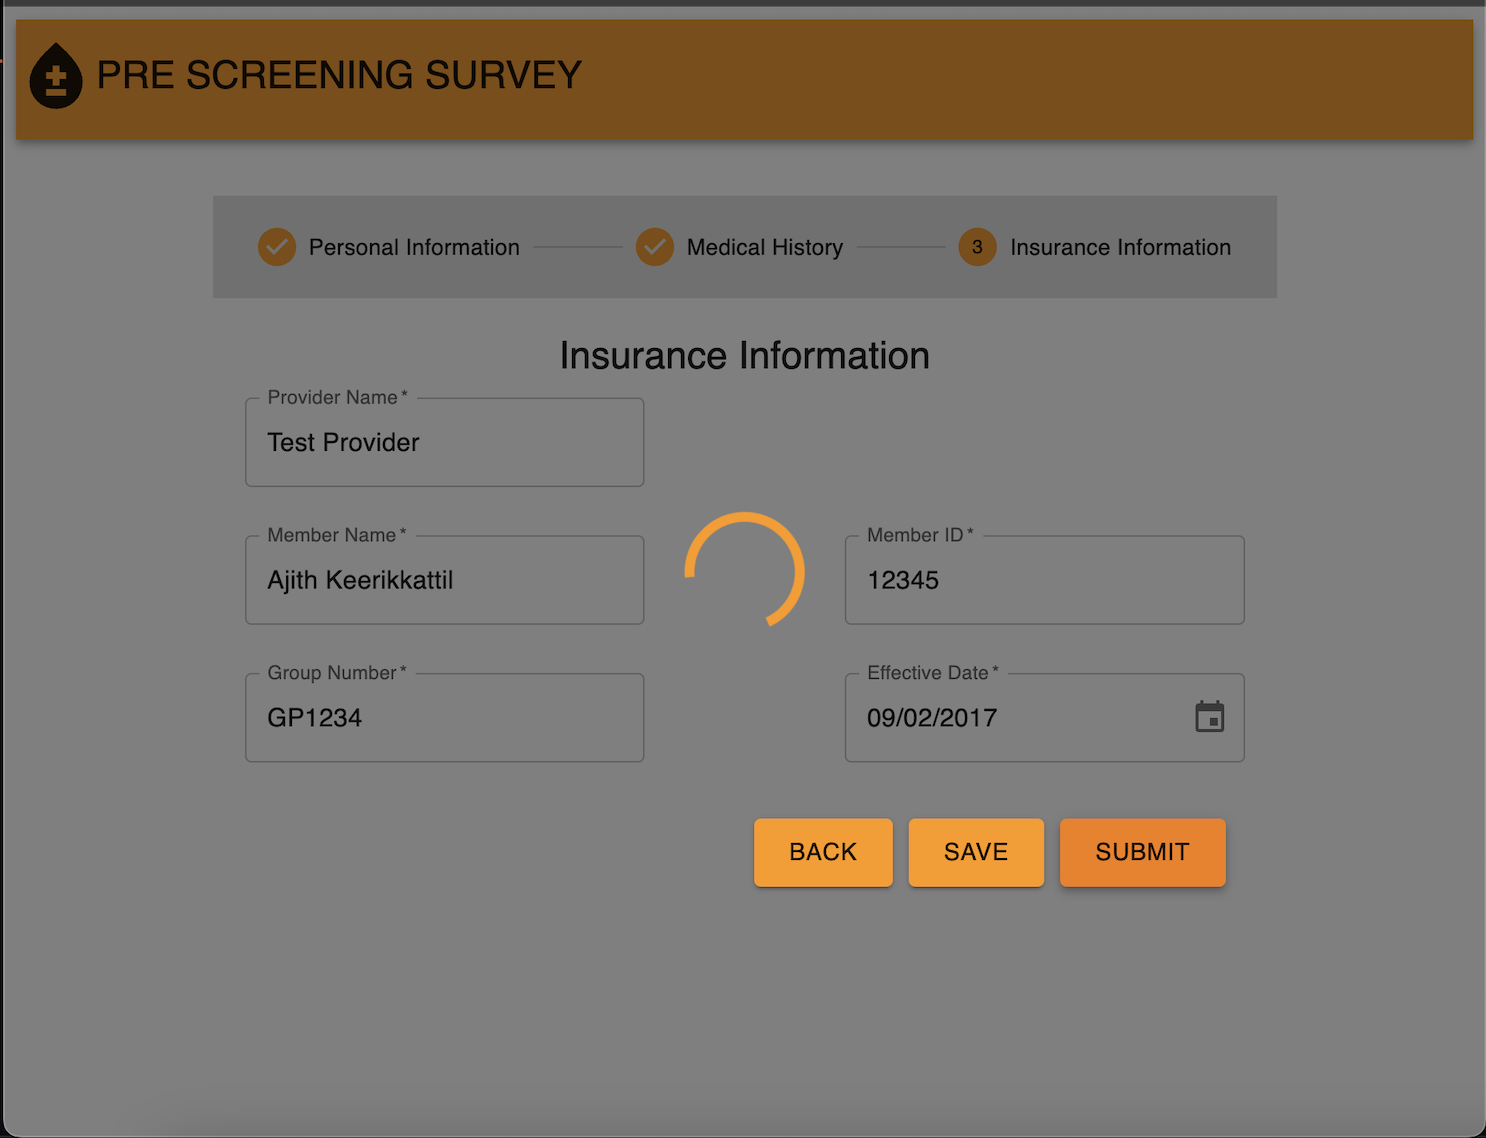
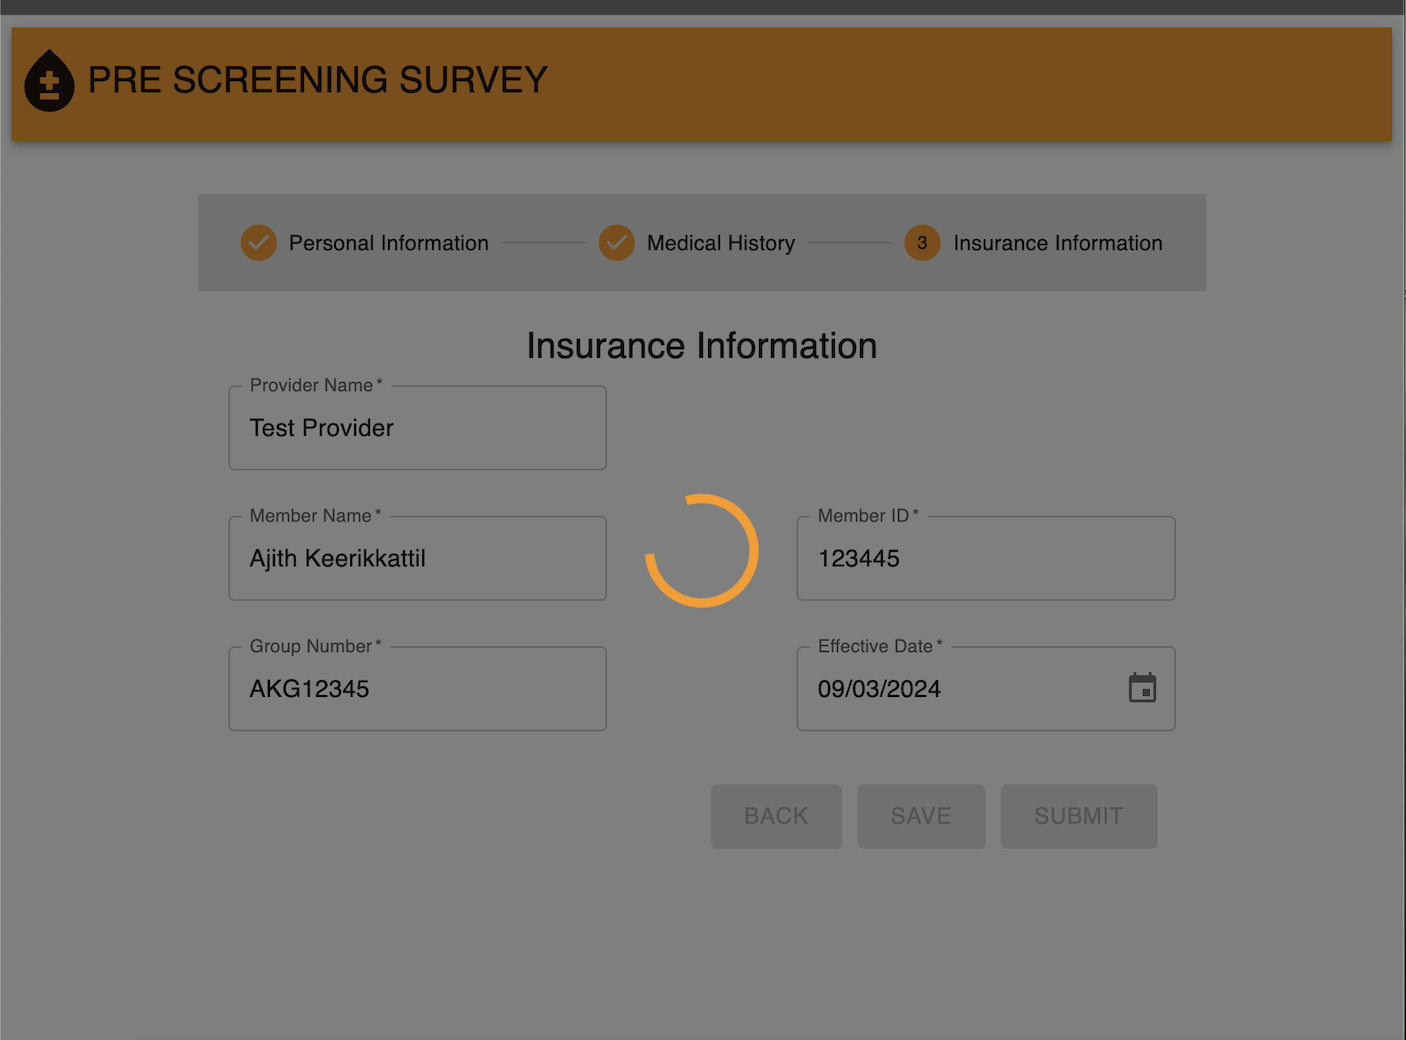
Added post submission screen

diff --git a/src/components/surveySteps/InsuranceInformation.tsx b/src/components/surveySteps/InsuranceInformation.tsx
@@ -60,7 +60,7 @@ function InsuranceInformation({
    let surveyState = useSelector((state: RootState) => state?.surveySlice);
 
    let loading = useSelector(
-      (state: RootState) => state?.surveySlice?.isLoading
+       (state: RootState) => state?.surveySlice?.isLoading
    );
 
    let dispatch = useDispatch();
@@ -119,8 +119,6 @@ function InsuranceInformation({
 
    return (
       <>
-         <Overlay open={loading} />
-
          <Box sx={styles.formBox}>
             <ControlledMuiTextField
                sx={styles.textField}
@@ -174,7 +172,8 @@ function InsuranceInformation({
             <StepperNavButtons
                stepIndex={activeStep}
                maxSteps={3}
-               disableNextButton={!isValid}
+               disableNextButton={!isValid || loading}
+               disableBackButton={loading}
                onBackButtonClick={onBackButton}
                onNextButtonClick={saveSurveyInformation}
             >
@@ -182,7 +181,7 @@ function InsuranceInformation({
                   sx={{ marginLeft: '10px' }}
                   variant="contained"
                   size={'large'}
-                  disabled={!isValid}
+                  disabled={!isValid || loading}
                   onClick={() => onSubmitButtonClick()}
                >
                   Submit

diff --git a/src/components/SurveyStepper.tsx b/src/components/SurveyStepper.tsx
@@ -16,6 +16,7 @@ import StepperTitle from './common/StepperTitle';
 import {useSelector} from "react-redux";
 import {RootState} from "./store/StateStore";
 import SuccessSubmit from "./common/SuccessSubmit";
+import Overlay from "./common/Overlay";
 
 /* CSS styling */
 const styles = {
@@ -46,6 +47,10 @@ function SurveyStepper() {
        (state: RootState) => state?.surveySlice?.isSubmitted
    );
 
+   let loading = useSelector(
+       (state: RootState) => state?.surveySlice?.isLoading
+   );
+
    let [activeStep, setActiveStep] = useState(0);
 
    let onBackButtonClick = useCallback(() => {
@@ -60,6 +65,7 @@ function SurveyStepper() {
 
    const StepperComponent: ReactJSXElement = (
        <>
+          <Overlay open={loading} />
           <Box sx={styles.surveyStepperBox}>
              <Stepper activeStep={activeStep}>
                 {stepperLabels.map((stepLabel: string, index: number) => {

diff --git a/src/components/common/StepperNavButtons.tsx b/src/components/common/StepperNavButtons.tsx
@@ -14,6 +14,7 @@ type StepperNavButtonProps = {
    onBackButtonClick: () => void;
    onNextButtonClick: () => void;
    disableNextButton?: boolean;
+   disableBackButton?: boolean
    children?: React.ReactNode;
 };
 
@@ -23,6 +24,7 @@ function StepperNavButtons({
    onBackButtonClick,
    onNextButtonClick,
    disableNextButton = false,
+   disableBackButton =false,
    children,
 }: StepperNavButtonProps) {
    return (
@@ -33,6 +35,7 @@ function StepperNavButtons({
                   variant="contained"
                   size={'large'}
                   sx={{ marginRight: '10px' }}
+                  disabled={disableBackButton}
                   onClick={() => onBackButtonClick()}
                >
                   Back

diff --git a/README.md b/README.md
@@ -4,7 +4,7 @@
 ![screen_2.png](screenImages/screen_2.png)
 ![screen_3.png](screenImages/screen_3.png)
 ![screen_4.png](screenImages/screen_4.png)
-![screen_4.png](screenImages/screen_5.png)
+![screen_5.png](screenImages/screen_5.png)
 ## Available Scripts
 
 In the project directory, you can run:
